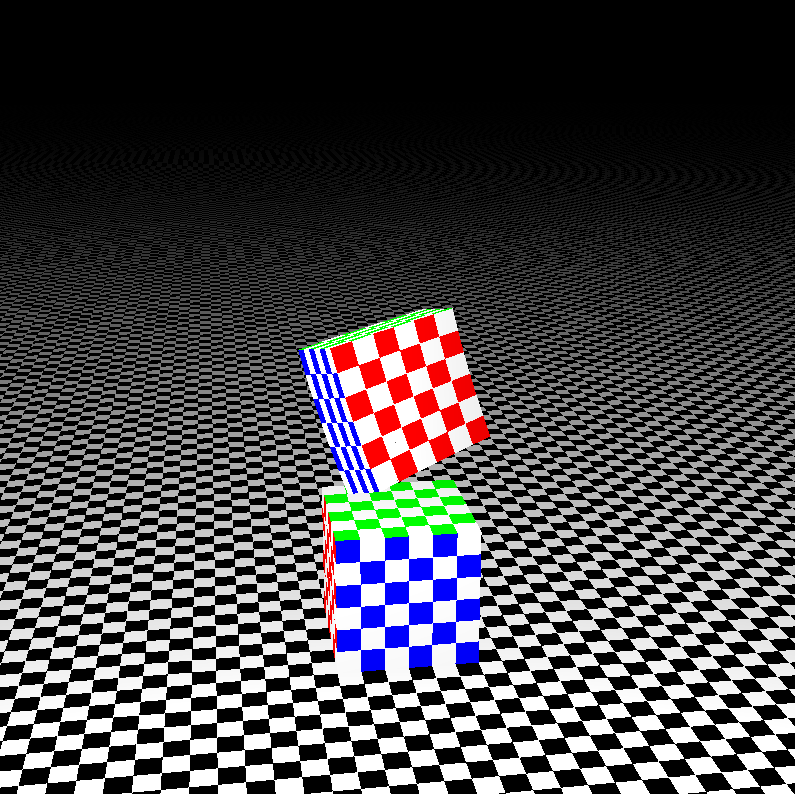
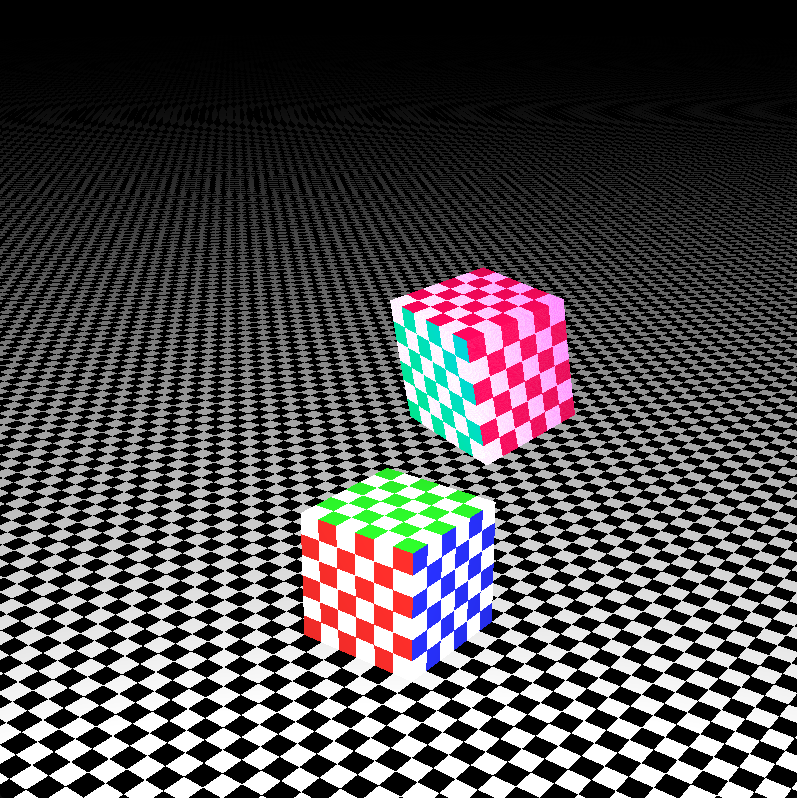
Added rudimentary wavelength->RGB converter and Doppler shift with nice UV and IR effect

diff --git a/renderGlumpy.py b/renderGlumpy.py
@@ -11,17 +11,18 @@ vertex = """
 
 
 fragment = """
-//Frozen time
-#define TIME_DEFINITION camDist
-
-//Periodic time
-//#define TIME_DEFINITION mod(time*10.0,camDist)+camDist/2.0
 
     uniform float phi;
     uniform float psy;
     uniform float screen_ratio;
     uniform float time;
     varying vec2 tex_coord0;
+
+//Frozen time
+//#define TIME_DEFINITION camDist
+
+//Periodic time
+#define TIME_DEFINITION mod(time*10.0,camDist)+camDist/2.0
 #define MAX_DIST -1e5
 
 struct distanceAndColor{
@@ -29,11 +30,52 @@ struct distanceAndColor{
 	vec3 color;
 };
 
+vec3 waveLengthToRGB(float hue)
+{
+    // https://www.shadertoy.com/view/ll2cDc
+
+	return vec3(.5 + .5 * clamp( 1.3*cos(-0.3 + 6.28 * hue + vec3(0,0.66666*6.28, 0.3333*6.28)), -1.0, 1.0));
+//approximate colors
+//red is hue = 0.05
+//green is 0.38
+//blue is 0.71
+}
+
+
 distanceAndColor opU(distanceAndColor oldDistLim, float t, vec3 color) {
 
 	return (-t < oldDistLim.dLim[1]) ? distanceAndColor(vec2(oldDistLim.dLim[0], -t), color) : oldDistLim;
 }
 
+float dopplerShift(float hue, float factor){
+	float freq = 1.0/(hue+1.0); 
+	//hue=1/freq-1
+	float freqDoppl = freq*factor;
+	float hueDoppl = 1.0/freqDoppl - 1.0;
+	return hueDoppl;
+}
+
+float PHI = 1.61803398874989484820459;  // Φ = Golden Ratio   
+
+float gold_noise(in vec2 xy, in float seed){
+       return fract(tan(distance(xy*PHI, xy)*seed*2323.0)*xy.x);
+}
+
+vec3 wideSpectrum(float hue) {
+	if (hue<0.0) {
+		vec3 red = waveLengthToRGB(0.0);
+	    float noise = (1.0-exp(hue))*gold_noise(tex_coord0, time);
+		
+		return red-noise*red;
+    }
+	if (hue>1.0) {
+		vec3 violet =  waveLengthToRGB(1.0);
+		vec3 antiViolet = 1.0 - violet;
+		float noise = (1.0-exp(0.2-0.2*hue))*gold_noise(tex_coord0, time);
+		return violet+noise*antiViolet;
+    }
+	return waveLengthToRGB(hue);
+}
 
 vec4 box4(in vec4 ro, in vec4 rd, in vec4 origin, in mat4 invLor, in mat4 Einv, in vec3 halfSizes, in vec2 distLim  ) {
 	
@@ -59,21 +101,25 @@ vec4 box4(in vec4 ro, in vec4 rd, in vec4 origin, in mat4 invLor, in mat4 Einv, 
 	vec4 sptq = sptq_o + sptq_d*tF;
 	float shade = 1.0;//mod(floor(sptq.s) +floor(sptq.q) , 2.);
 	//return vec4(tF,1.0, 1.0, 1.0); 
+	vec3 red = wideSpectrum(dopplerShift(0.05, abs(sptq_d.w)));	
+	vec3 green = wideSpectrum(dopplerShift(0.38, abs(sptq_d.w)));
+	vec3 blue = wideSpectrum(dopplerShift(0.71, abs(sptq_d.w)));
 	
+	vec3 white = red+green+blue;
 	if (abs(sptq.x) + 3e-5 > halfSizes.x) {
 	
 	shade = mod(floor(sptq.y) +floor(sptq.z) , 2.);
-	vec3 color = shade*vec3(1.0, 1.0, 1.0) + (1.0-shade)*vec3(1.0, 0.0, 0.0); 
+	vec3 color = shade*white + (1.0-shade)*red; 
 	return vec4(tF,color);
 	}
 
 	if (abs(sptq.y) + 3e-5 > halfSizes.y) {shade = mod(floor(sptq.x) +floor(sptq.z) , 2.);
-   vec3 color = shade*vec3(1.0, 1.0, 1.0) + (1.0-shade)*vec3(0.0, 1.0, 0.0);
+   vec3 color = shade*white + (1.0-shade)*green;
 	
 	return vec4(tF,color);}
 	if (abs(sptq.z)+3e-5 > halfSizes.z) {shade = mod(floor(sptq.x) +floor(sptq.y) , 2.);
 	//shade = 1.0;
-	vec3 color = shade*vec3(1.0, 1.0, 1.0) + (1.0-shade)*vec3(0.0, 0.0, 1.0);
+	vec3 color = shade*white + (1.0-shade)*blue;
 	return vec4(tF,color);}
 	
 	return vec4(tF, 0.4,0.4,0.4);
@@ -109,9 +155,14 @@ distanceAndColor worldHit(in vec4 ro, in vec4 rd, in vec2 distLim, in float show
 	4.73684211, 0.0, 0.0, 4.69904779); //x-direction with 0.9c
 
 	mat4 invBoost2 = mat4(2.29415734, 0.0, 0.0, -2.0647416, 0.0, 1.0, 0.0, 0.0, 0.0, 0.0, 1.0, 0.0,-2.0647416, 0.0, 0.0, 2.29415734 );
+
+	mat4 invBoost05 = mat4(1.3333333, 0.0, 0.0, 0.666666, 
+		0.0, 1.0, 0.0, 0.0, 
+		0.0, 0.0, 1.0, 0.0, 
+		0.666666, 0.0, 0.0, 1.19935874); //half the speed of ligth
 	mat4 noBoost = mat4(1.0, 0.0, 0.0, 0.0, 0.0, 1.0, 0.0, 0.0, 0.0, 0.0, 1.0, 0.0, 0.0, 0.0, 0.0, 1.0); //this is also the inverse of invBoost 
 	
-	vec4 dc = box4( ro, rd, vec4(0.0, 0.0, 0.0, showTime), invBoost, mat4( 1.0, 0.0, 0.0, 0.0,    0.0, 1.0, 0.0, 0.0,    0.0, 0.0, 1.0, 0.0,    0.0, 0.0, 0.0, 1.0 ), vec3(3.0, 3.0, 3.0), dlc.dLim );
+	vec4 dc = box4( ro, rd, vec4(0.0, 0.0, 0.0, showTime), invBoost05, mat4( 1.0, 0.0, 0.0, 0.0,    0.0, 1.0, 0.0, 0.0,    0.0, 0.0, 1.0, 0.0,    0.0, 0.0, 0.0, 1.0 ), vec3(3.0, 3.0, 3.0), dlc.dLim );
 	dlc = opU(dlc, dc.x, dc.yzw);
 
 	dc = box4( ro, rd, vec4(0.0, -8.0, 0.0, showTime), noBoost, mat4( 1.0, 0.0, 0.0, 0.0,    0.0, 1.0, 0.0, 0.0,    0.0, 0.0, 1.0, 0.0,    0.0, 0.0, 0.0, 1.0 ), vec3(3.0, 3.0, 3.0), dlc.dLim );
@@ -150,8 +201,7 @@ void main (void){
 	//gl_FragColor = vec4(dc.yzw,1.0);
 	//gl_FragColor = vec4(0.5,0.5,0.5,1.0);
    gl_FragColor = vec4(dlc.color*exp(-0.016*(dlc.dLim.y-camDist)),1.0);//*frag_color;
-}
-// void main() { gl_FragColor = vec4(tex_coord0.y, 0.5*sin(time)+0.5, 0.0, 1.00); } 
+}// void main() { gl_FragColor = vec4(tex_coord0.y, 0.5*sin(time)+0.5, 0.0, 1.00); } 
 """
 
 
